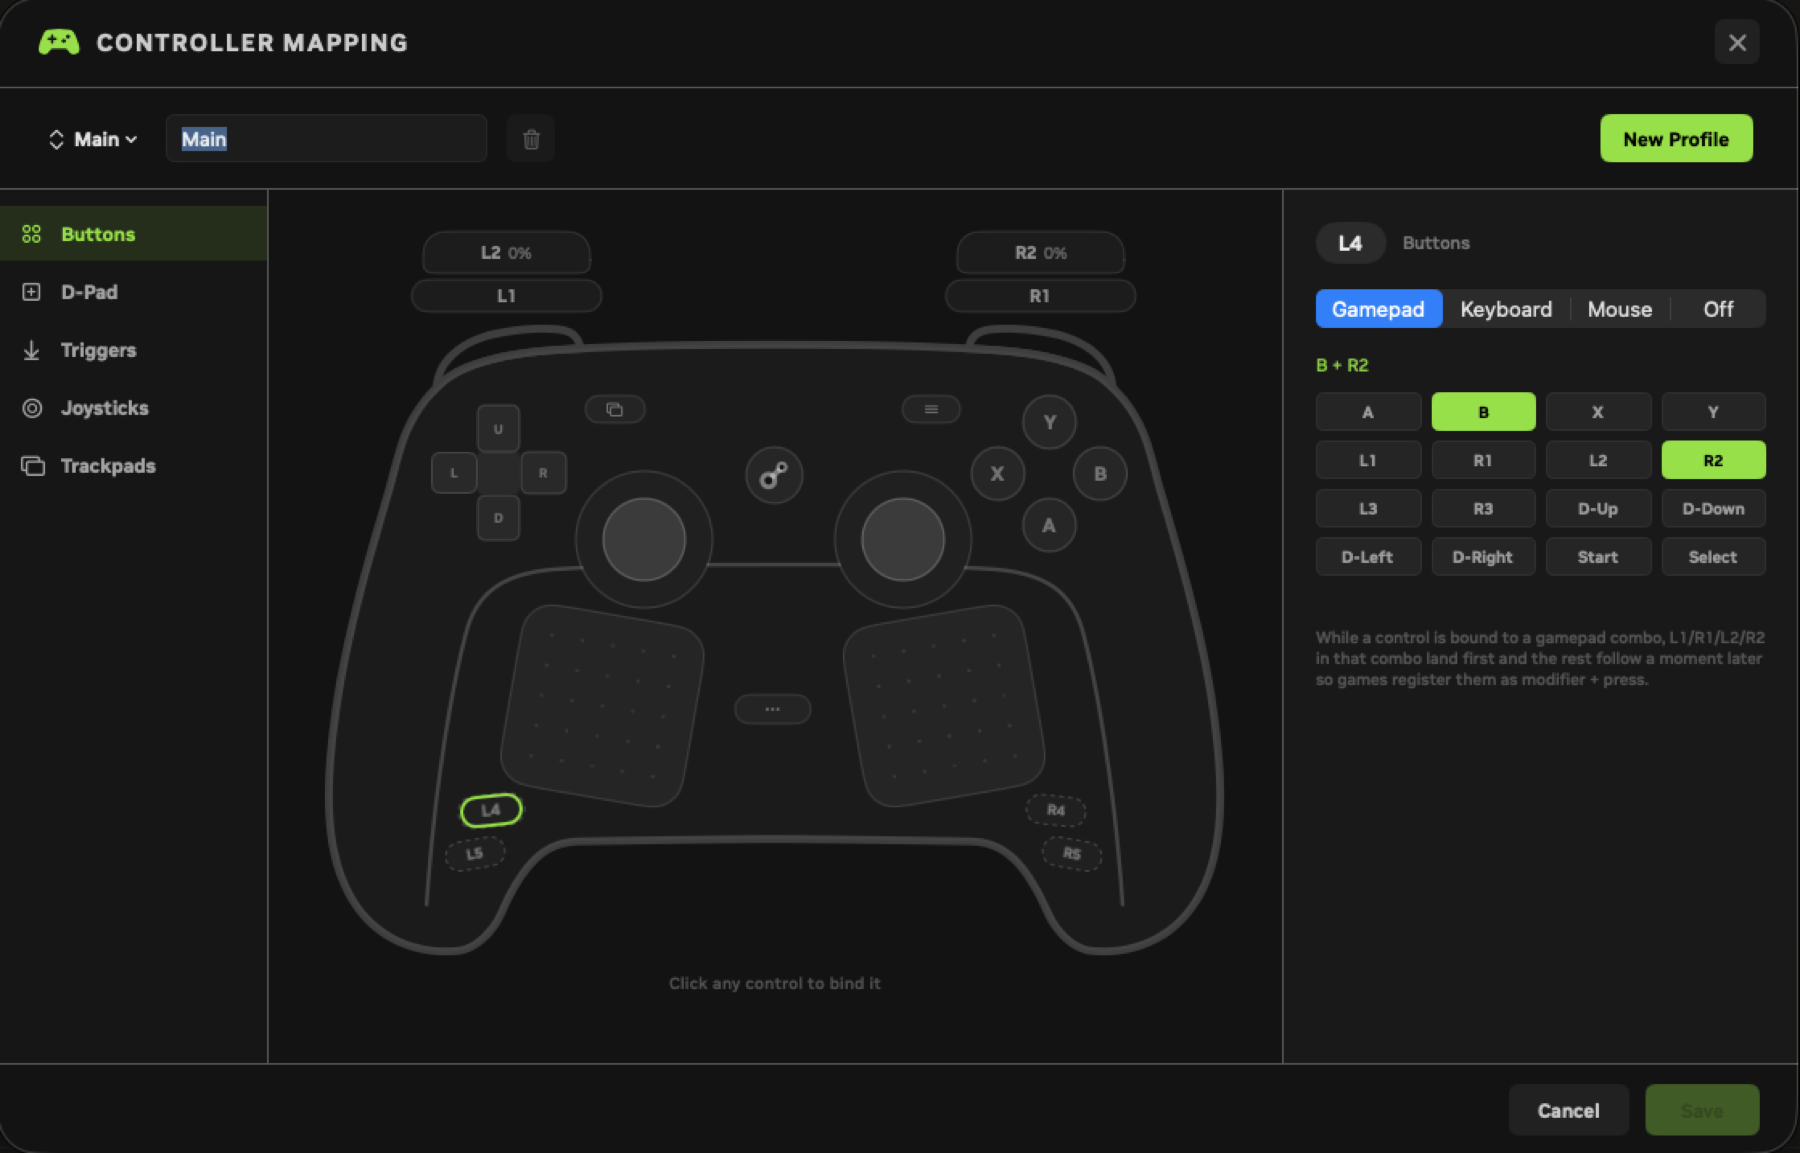
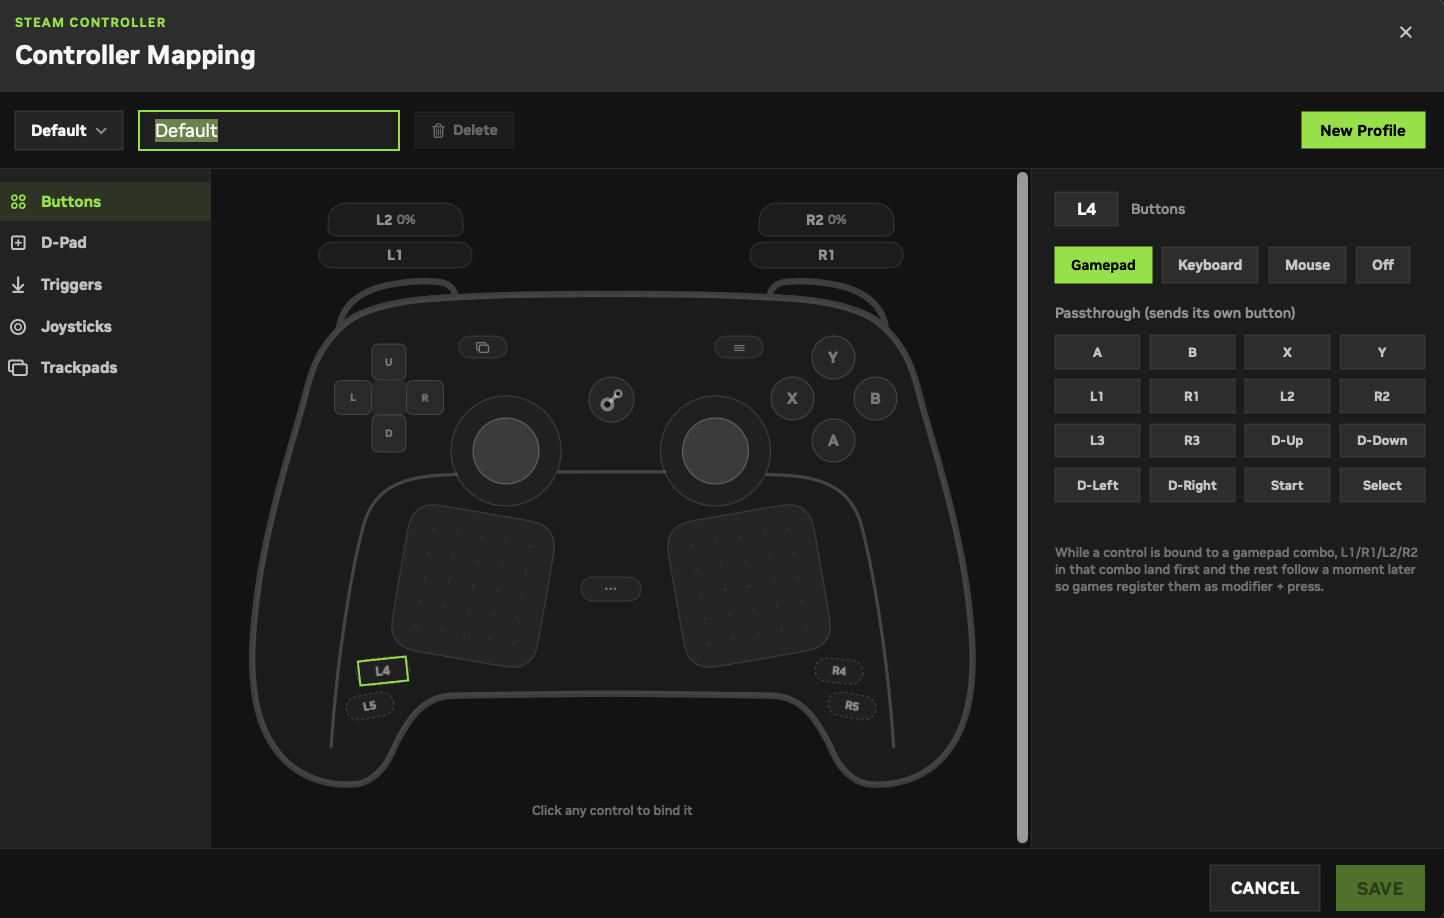
docs: refresh the README screenshots for the current app
catalog, streaming-quality, and controller-mapping all predated the
design pass and the settings restructure: the catalog shot had no hero
rotation or account chip, streaming-quality still showed one combined
Streaming Quality card with no preset, HDR, or colour-space rows, and the
mapping sheet was still on system blue with rounded controls.

Adds two views the feature table claimed but never showed, each with a
short section so the table rows can link down to them like the others:
Record Your Runs (library plus the Quick Edit timeline) and Settings You
Can Find (the destination sidebar, search, and the surround row).

Also corrects the destination count from eight to nine - Labs came back
after that line was written, and the new sidebar shot shows all nine.

diff --git a/README.md b/README.md
@@ -21,7 +21,7 @@
 
 <br>
 
-<img src="docs/screenshots/catalog.png" alt="OpenNOW catalog with GFN Thursday, Top Sellers, and Free-to-Play rails">
+<img src="docs/screenshots/catalog.png" alt="OpenNOW catalog: rotating hero banner, GFN Thursday rail, and a My Library rail with ownership and membership badges">
 
 </div>
 
@@ -39,13 +39,13 @@ GeForce NOW works on a Mac, but the official client leaves a lot on the table - 
 | 🖥 **Built for ultrawide** | 21:9 up to 5120×2160 and 32:9 up to 5120×1440, HEVC and AV1, and six ways to kill the black bars. [More ↓](#made-for-ultrawide) |
 | 🔼 **Upscaling, on both transports** | Off, Spatial, or MetalFX, targeting 2K/4K/5K, with live Clarity and Noise Reduction sliders - gamepad-navigable, same on WebRTC and native NVST. [More ↓](#upscaling) |
 | ⚡ **Native NVST transport** | Stream over NVIDIA's NVST protocol on OpenNOW's own native stack - RTSPS control, raw-SRTP video, VideoToolbox decode - with no vendor runtime in the bundle. [More ↓](#native-nvst-transport) |
-| ⏺ **Record your sessions** | One keystroke (⌘R) captures gameplay locally, with a browsable library and opt-in trim/crop/export editor. |
+| ⏺ **Record your sessions** | One keystroke (⌘R) captures gameplay locally, with a browsable library and opt-in trim/crop/export editor. [More ↓](#record-your-runs) |
 | 📚 **Your whole catalog** | Hero rotation, game rails, search and filters, store ownership picker, persistent Library and Favorites - plus a live banner that drops you straight back into an active session. |
 | 🌐 **Remote Co-Op** | Invite a friend from a browser link and hand them a player slot in your session - hosted by OpenNOW itself, no server to deploy, host-approved, native input path. |
 | ⌨ **On-screen keyboard in-stream** | Steam + X summons a Steam Deck-style keyboard right over the game - dual trackpads aim, L2/R2 or a pad click types. Tap the ⬍ key to flip it to the top of the screen when it overlaps something important. Works on any controller. |
 | 🔊 **5.1 / 7.1 surround** | Multi-channel Opus on both transports, negotiated from your output device and membership, with a stereo fold for recordings and Remote Co-Op. |
 | 🔔 **Session ready** | Queue in the background: pick a system notification or have OpenNOW come to the front the moment your seat is ready. |
-| 🔎 **Settings you can find** | Eight destinations named for what they hold, and a search that answers the word you know: type 5.1, black bars or vsync and it lands on the setting. |
+| 🔎 **Settings you can find** | Nine destinations named for what they hold, and a search that answers the word you know: type 5.1, black bars or vsync and it lands on the setting. [More ↓](#settings-you-can-find) |
 | 💬 **Discord Rich Presence** | Your friends see what you're playing, automatically. |
 | 🕹 **Full controller navigation** | Drive the entire app - catalog, details, settings - from the pad. Never reach for the mouse. |
 | 📊 **Real diagnostics** | Live stream HUD, session timers, network stats, and exportable logs when something goes wrong. |
@@ -62,7 +62,7 @@ Requires macOS 15.6 or later and your own GeForce NOW account.
 
 Pick your shape, then your resolution - 16:9, 16:10, 21:9, or 32:9. The wide end tops out at **5120×2160** on 21:9 and **5120×1440** on 32:9, all at 30/60/120/240 fps. HEVC carries true 5K streams where H.264 hardware decode runs out of headroom, and **AV1** leans in whenever bandwidth is the bottleneck, decoded in hardware on M3-and-later Apple silicon. 10-bit 4:2:0/4:4:4 colour is there when the codec supports it, HDR10 rides a 10-bit HEVC stream straight to an EDR drawable on both transports, and any codec your Mac can't decode greys itself out instead of failing mid-session.
 
-![Streaming quality settings: aspect ratio, resolution, frame rate, codec, bitrate, and colour precision](docs/screenshots/streaming-quality.png)
+![Video settings: quality preset, aspect ratio, resolution and frame rate; codec, colour precision, HDR and colour space; maximum bitrate, with a measured per-frame decode budget for this Mac](docs/screenshots/streaming-quality.png)
 
 ### No more black bars
 
@@ -163,6 +163,22 @@ A Steam Deck-style overlay for logins, chat, and search fields in any GeForce NO
 Struct layouts for all three formats are documented in SDL's [`controller_structs.h`](https://github.com/libsdl-org/SDL/blob/main/src/joystick/hidapi/steam/controller_structs.h). Axis values normalize to `-1...1` (`Int16` full scale), triggers and pad pressure to `0...1`. Parsing is covered by `Tests/Stream/SteamControllerReportTests.swift`.
 
 </details>
+
+## Record Your Runs
+
+⌘R starts and stops a local capture on either transport - frames come straight off the decode path and game audio off the stream, so nothing is re-encoded from the screen and no Screen Recording permission is involved. Recordings land in a browsable library with search, sort, and resolution filters.
+
+![Recordings library beside the Quick Edit timeline: a saved Streets of Rage 4 capture, its 5120x2160 thumbnail and size, and a filmstrip timeline with trim, split, and set in/out controls](docs/screenshots/recordings.png)
+
+**Quick Edit** is opt-in and non-destructive - trim the ends, split and cut a middle section, join what is left, then save as a new video. The advanced pass adds crop, rotate, flip, speed, and audio. The original file is never rewritten.
+
+## Settings You Can Find
+
+Nine destinations named for what they hold - Account, Video, Audio, Input, Recording, Network, Remote Co-Op, General, and Labs - down a sidebar that shows all of them at once. Settings that arrived recently wear a **NEW** tag until you have seen them, so a new option in a tab you never open still announces itself.
+
+![OpenNOW Audio settings: the destination sidebar with search, and Output and Microphone cards holding game volume, surround mode, microphone mode, device, volume, and a local microphone test](docs/screenshots/settings-audio.png)
+
+Search answers the word you already know rather than the one the setting is filed under: type `5.1`, `black bars`, or `vsync` and it lands on the row, in whichever tab it lives.
 
 ## Build from Source
 
